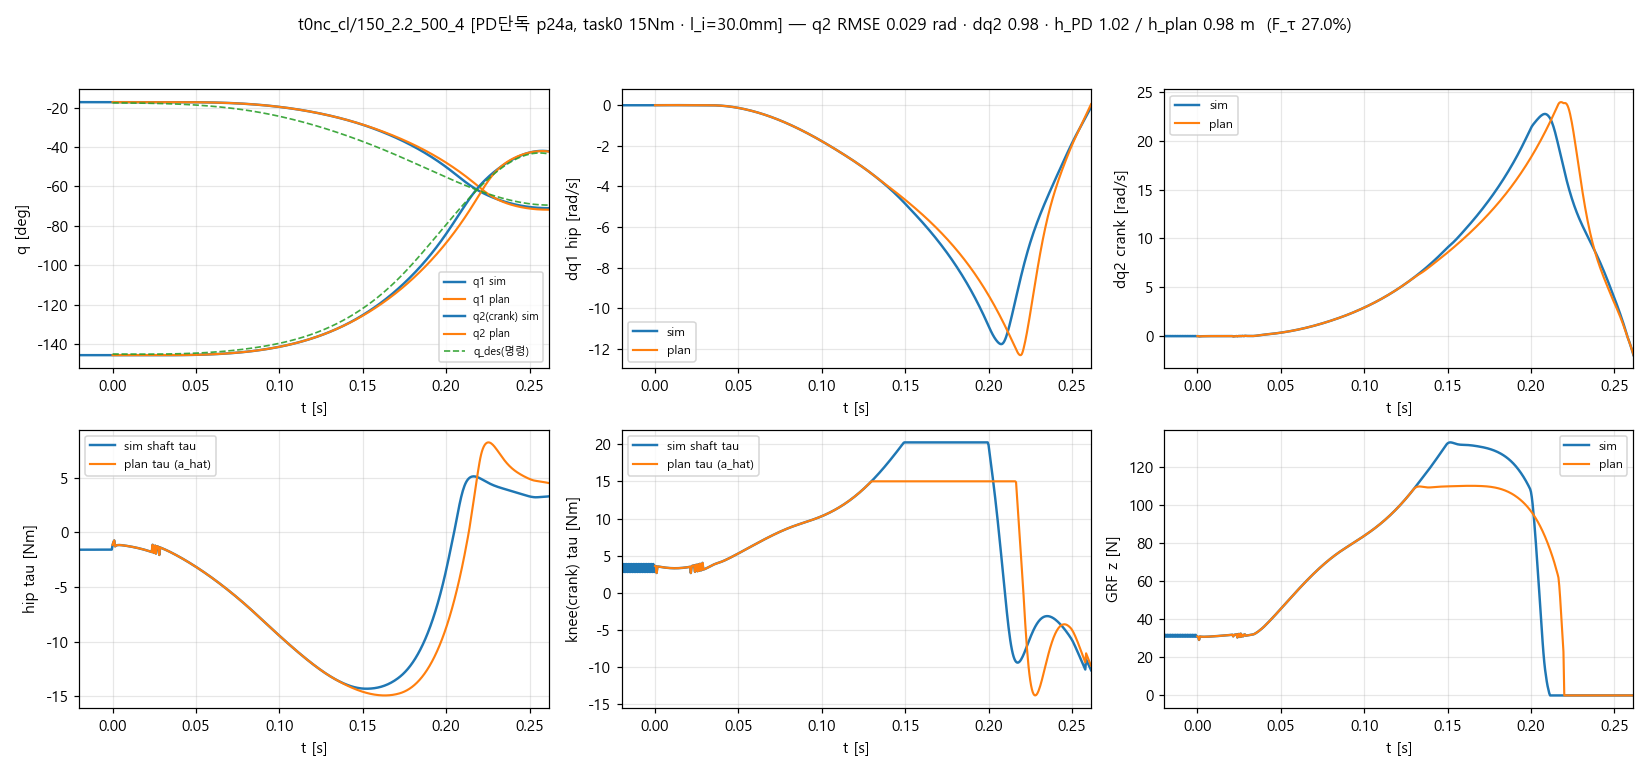
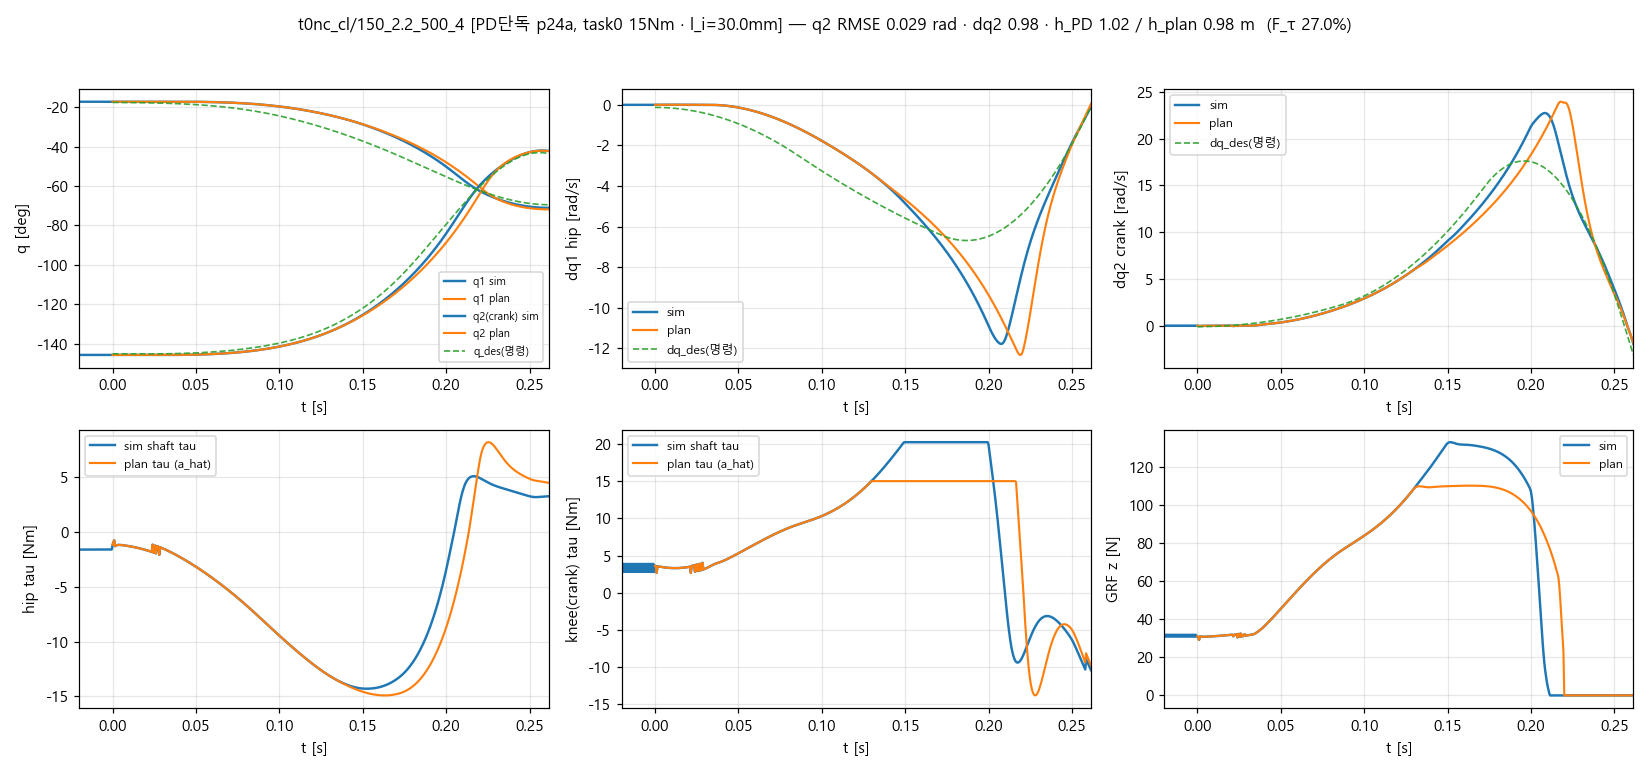
CL 그림 dq_des 추가 (q/dq 패널에 명령 초록 파선 — tau는 구조상 des=plan) — CL 16장 재생성
Claude-Session: https://claude.ai/code/session_018tXRZDWy9RG1Z1qWD21UNo

diff --git a/code/goal22/p25_task0/t0_ours.py b/code/goal22/p25_task0/t0_ours.py
@@ -60,6 +60,8 @@ def fig_std(P, Dc, out_png, title, t_lo):
                          (axs[0, 2], "dq2", "dq2 crank [rad/s]")):
         ax.plot(Dc["t"], Dc[kd], "C0", lw=1.6, label="sim")
         ax.plot(P["t"], P[kd], "C1", lw=1.4, label="plan")
+        if f"d{kd}" in P:
+            ax.plot(P["t"], P[f"d{kd}"], "C2", lw=1.1, ls="--", label="dq_des(명령)", alpha=0.9)
         ax.set(xlabel="t [s]", ylabel=ylab)
         ax.legend(fontsize=8)
         ax.grid(alpha=0.3)
@@ -109,7 +111,9 @@ def do_nc(stem):
         qd1 = np.asarray(z["qd1"], float)[mm]
         qd2 = np.asarray(z["qd2"], float)[mm]
         if np.max(np.abs(qd1 - P["q1"])) > 1e-6:
-            P = dict(P, qd1=qd1, qd2=qd2)
+            dqd1 = np.asarray(z["dqd1"], float)[mm]
+            dqd2 = np.asarray(z["dqd2"], float)[mm]
+            P = dict(P, qd1=qd1, qd2=qd2, ddq1=dqd1, ddq2=dqd2)
     for mname, mdir, fn in MODES:
         best = None
         for gk in D.GAINS:
